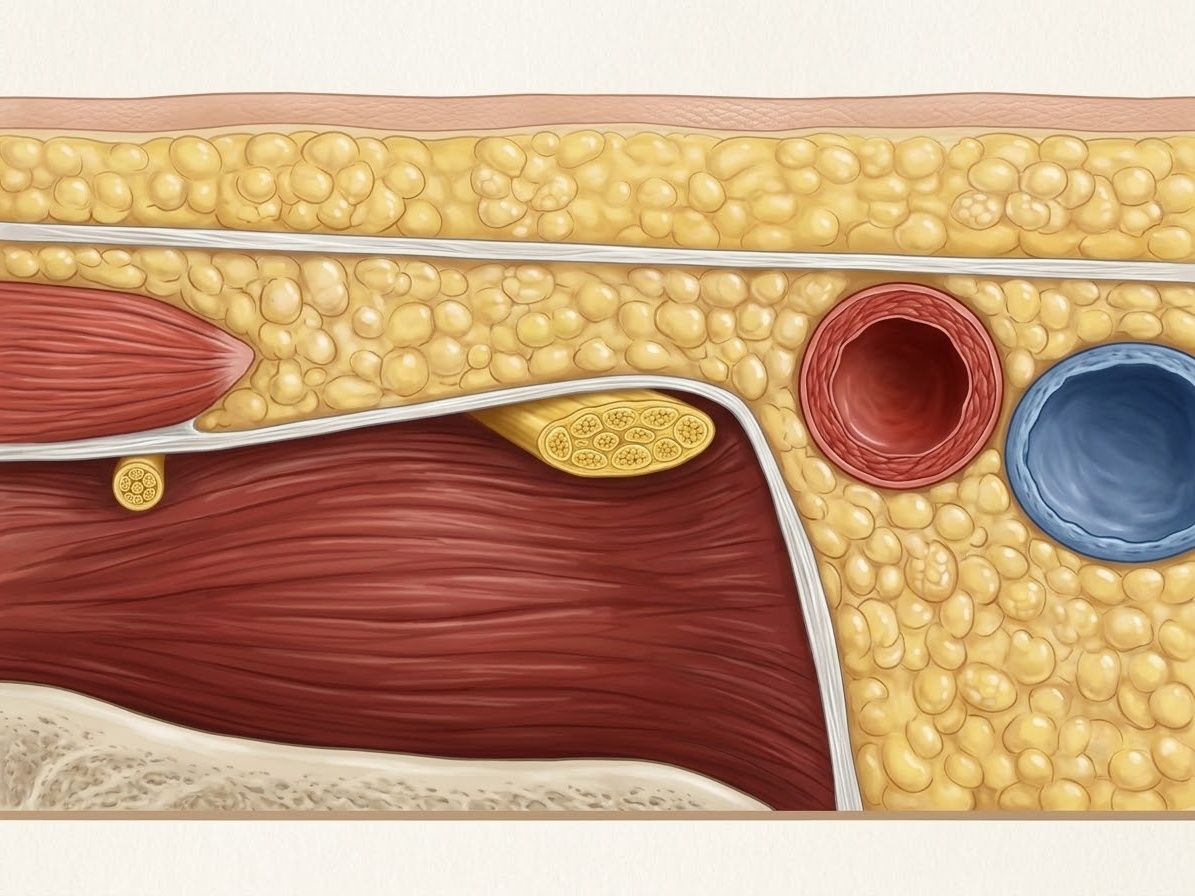
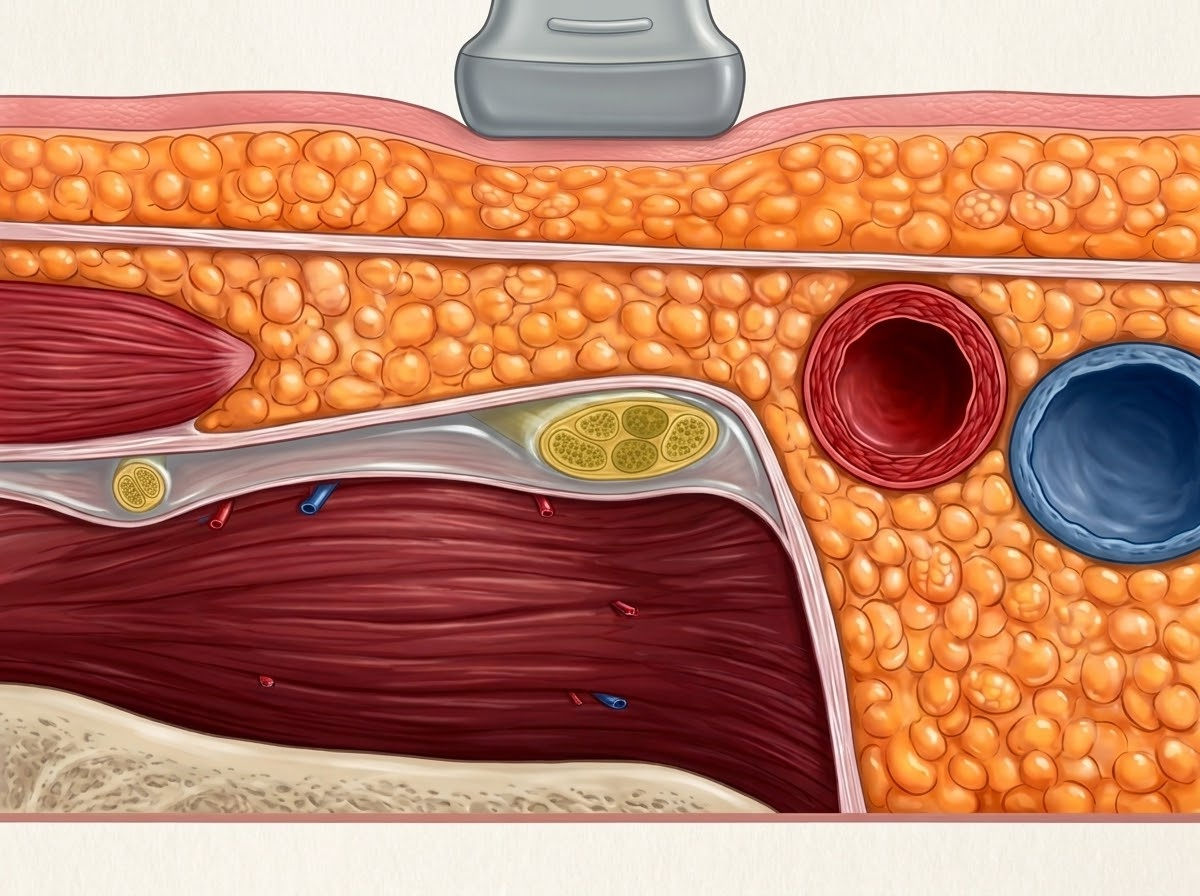
FICB anatomy plate on the owner's plane-opened painting (review draft); checker and patch fixes
- ficb_anatomy_layers: base is the owner's Gemini revision of the preferred
  painting with the fascial plane opened and the femoral nerve in
  compartments, mirrored lateral-left. Muscle surface under the plane and
  the painted probe traced on the painting; the code-drawn injectate fills
  the painted plane; needle tip mid-plane, lateral to the nerve, under the
  probe. The third-party concept image used for the revision is not in the
  repo (owner's temporary exception). 50/50 checks. Not bundled.
- render_visuals.py: <line> elements are sampled every 4 px like paths; 41
  samples on a long needle stepped over a 10 px fascia. All plates re-pass.
- visual_patch.py merge --keep: take back only part of the crop, so Gemini
  can see more context than it may change. Test added.

Claude-Session: https://claude.ai/code/session_01XyVvHwhR2fjDV2qNK5bAob

diff --git a/visuals/ficb_anatomy_layers/draw.py b/visuals/ficb_anatomy_layers/draw.py
@@ -1,14 +1,15 @@
 """Fascia iliaca block - the right groin in section under a linear probe.
 
-Painted base plus code-drawn markings. The art is the owner's Gemini Nano
-Banana Pro repaint of the flat-colour zoomed layout (commit d7c43c8), which
-the owner judged the best tissue rendering of every attempt; textured
-references made later repaints worse. That layout ran medial-left, so the
-painting is mirrored here (gemini-original.jpg is the file as painted) to
-run lateral-left like the patient-position plate and a transverse
-ultrasound. The painting lies on the layout within a few pixels, so the
-layout shapes stay as the invisible label and check regions (DEBUG=1 shows
-them). Re-check them if the base is replaced.
+Painted base plus code-drawn markings. The art descends from the owner's
+Gemini Nano Banana Pro repaint of the flat-colour zoomed layout (commit
+d7c43c8), the best tissue rendering of every attempt, which the owner then
+had Gemini revise with the fascial plane opened (provenance.json). It ran
+medial-left, so it is mirrored here (gemini-original.jpg is the file as
+painted) to run lateral-left like the patient-position plate and a
+transverse ultrasound. The painting lies on the layout within a few pixels;
+the layout shapes stay as the invisible regions (DEBUG=1 shows them), with
+the muscle surface under the opened plane and the painted probe traced on
+the painting. Re-trace them if the base is replaced.
 
 Transverse section at the inguinal crease, patient supine, seen from the
 feet: lateral on the image left, medial on the right, skin at the top.
@@ -44,7 +45,7 @@ from visuals_lib import Label, document, fmt, smooth_path  # noqa: E402
 
 ASSET_ID = "ficb_anatomy_layers"
 BASE = Path(__file__).with_name("base.jpg")
-BASE_SIZE = (1195.0, 896.0)
+BASE_SIZE = (1200.0, 896.0)
 PX_MM = 28.0
 ORIGIN = (392.0, 130.0)           # layout origin before the mirror
 X0, X1 = -16.0, 45.0              # frame edges in mm
@@ -91,47 +92,65 @@ LFCN = ((36.5, 18.6), 1.1)
 SARTORIUS = [(31, 12.2), (36, 9.6), (42, 8.9), (X1 + 3, 9.0), (X1 + 3, 16.6), (40, 16.4), (34, 15.4)]
 BONE_Y = 34.5
 PROBE = (-5.0, 33.0)                               # footprint, mm
-NEEDLE_OUT = (43.2, -10.4)
-NEEDLE_TIP = (21.5, iliaca_y(21.5) + 0.3)          # in the plane, just under the fascia
-SPREAD_LATERAL = 39.0
+# The iliopsoas surface under the opened plane, traced on the painting (mm).
+MUSCLE_SURFACE = [(8, 19.36), (10, 19.26), (12, 19.3), (14, 19.31), (16, 19.35), (18, 18.88), (20, 18.69), (22, 18.26),
+                  (24, 18.17), (26, 18.26), (28, 18.4), (30, 18.7), (32, 19.12), (34, 19.83), (36, 20.4), (38, 20.5),
+                  (40, 20.02), (42, 19.36), (44, 19.1), (48, 19.0)]
+# The painted probe (a narrow one), traced in canvas px on the mirrored painting.
+PAINTED_PROBE = [(607, 0), (993, 0), (993, 150), (980, 178), (620, 178), (607, 150)]
+PAINTED_PROBE_MM = (7.8, 21.6)                     # its face, lateral coordinates
+NEEDLE_OUT = (27.7, -10.0)
+NEEDLE_TIP = (19.6, 16.6)                          # mid-plane, lateral to the nerve, under the probe
 SPREAD_MEDIAL = NERVE[0][0] - NERVE[1] - 0.7
 
 
+def painted_skin(x):
+    """The painted skin surface: dented about 2 mm under the probe face, easing
+    back to level over the shoulders (traced on the painting)."""
+    (f0, f1), (s0, s1), depth = PAINTED_PROBE_MM, (4.2, 26.2), 2.0
+    if f0 <= x <= f1:
+        return depth
+    if s0 < x < f0:
+        return depth * (1 - math.cos(math.pi * (x - s0) / (f0 - s0))) / 2
+    if f1 < x < s1:
+        return depth * (1 + math.cos(math.pi * (x - f1) / (s1 - f1))) / 2
+    return 0.0
+
+
 def needle_entry():
-    """Where the needle line meets the skin (y = 0)."""
+    """Where the needle line meets the painted skin."""
     (xa, ya), (xb, yb) = NEEDLE_OUT, NEEDLE_TIP
-    m = -ya / (yb - ya)
-    return (xa + (xb - xa) * m, 0.0)
-
-
-def _hug(x, centre, rx, ry, pad):
-    """Depth of the lower edge of an ellipse widened by `pad`, or 0 outside it."""
-    (cx, cy), w = centre, rx + pad
-    if abs(x - cx) >= w:
-        return 0.0
-    return cy + (ry + pad * 0.8) * math.sqrt(1 - ((x - cx) / w) ** 2)
+    lo, hi = 0.0, 1.0
+    for _ in range(40):
+        m = (lo + hi) / 2
+        x, y = xa + (xb - xa) * m, ya + (yb - ya) * m
+        lo, hi = (m, hi) if y < painted_skin(x) else (lo, m)
+    return (xa + (xb - xa) * lo, ya + (yb - ya) * lo)
 
 
 def muscle_top(x):
-    """The iliopsoas surface: just under the fascia iliaca, passing beneath both
-    nerves, which lie in the fascial plane."""
-    return max(iliaca_y(x) + 0.5, _hug(x, NERVE[0], NERVE[1], NERVE[2], 0.9), _hug(x, LFCN[0], LFCN[1], LFCN[1], 0.6))
-
-
-def spread_floor(x):
-    lens = iliaca_y(x) + 0.5 + 2.6 * max(0.0, math.sin(math.pi * (SPREAD_LATERAL - x) / (SPREAD_LATERAL - SPREAD_MEDIAL))) ** 0.7
-    return max(lens, _hug(x, NERVE[0], NERVE[1], NERVE[2], 0.6), _hug(x, LFCN[0], LFCN[1], LFCN[1], 0.5))
+    """The iliopsoas surface, deep to the opened fascial plane in which both
+    nerves lie (traced on the painting)."""
+    pts_ = MUSCLE_SURFACE
+    if x <= pts_[0][0]:
+        return pts_[0][1]
+    for (xa, ya), (xb, yb) in zip(pts_, pts_[1:]):
+        if xa <= x <= xb:
+            return ya + (yb - ya) * (x - xa) / (xb - xa)
+    return pts_[-1][1]
 
 
 def spread():
-    """The injectate opening the plane between the fascia iliaca and the muscle."""
-    n = 40
-    xs = [SPREAD_LATERAL - (SPREAD_LATERAL - SPREAD_MEDIAL) * i / n for i in range(n + 1)]
-    return [(x, iliaca_y(x) + 0.2) for x in xs] + [(x, spread_floor(x)) for x in reversed(xs)]
+    """The injectate filling the opened plane between the fascia iliaca and the
+    muscle, from the femoral nerve out to the lateral edge."""
+    n = 50
+    lateral = X1 + 3
+    xs = [lateral - (lateral - SPREAD_MEDIAL) * i / n for i in range(n + 1)]
+    return [(x, iliaca_y(x) + 0.2) for x in xs] + [(x, muscle_top(x) - 0.15) for x in reversed(xs)]
 
 
 MUSCLE_TOP = [(x, muscle_top(x)) for x in [X1 + 3 - i * (X1 + 3 - 8.0) / 60 for i in range(61)]]
-MEDIAL_BORDER = [(6.9, 17.4), (5.4, 21.8), (4.0, 27.5), (3.4, BONE_Y - 0.4)]
+MEDIAL_BORDER = [(7.2, 19.6), (6.0, 24.0), (4.6, 29.0), (3.4, BONE_Y - 0.4)]
 ILIOPSOAS = MUSCLE_TOP + MEDIAL_BORDER + [(X1 + 3, BONE_Y - 0.4)]
 
 
@@ -171,6 +190,13 @@ def build() -> str:
         Label(["Iliopsoas"], anchor=(300, 880), leader=[(420, 832), c((27, 22))], target_id="iliopsoas"),
     ]
 
+    if painted:
+        probe_marking = (f'<polygon id="probe" points="{" ".join(f"{fmt(x)},{fmt(y)}" for x, y in PAINTED_PROBE)}" '
+                         f'fill="#ff00ff" fill-opacity="{0.35 if debug else 0}"/>')
+    else:
+        probe_marking = (f'<rect id="probe" x="{fmt(px0)}" y="{fmt(ORIGIN[1] - 150)}" width="{fmt(px1 - px0)}" height="150" rx="26" '
+                         f'fill="url(#probe-grad)" stroke="#4E565E" stroke-width="3"/>'
+                         f'<rect x="{fmt(px0 + 10)}" y="{fmt(ORIGIN[1] - 14)}" width="{fmt(px1 - px0 - 20)}" height="12" rx="5" fill="#3E454C"/>')
     scale = 1600 / BASE_SIZE[0]
     if painted:
         sha = hashlib.sha256(BASE.read_bytes()).hexdigest()
@@ -206,8 +232,7 @@ def build() -> str:
 
 <g class="marking">
   <path id="spread" d="{path(spread(), closed=True, tension=0.5)}" fill="#6CCBD2" fill-opacity="0.7" stroke="#0E8C98" stroke-width="4"/>
-  <rect id="probe" x="{fmt(px0)}" y="{fmt(ORIGIN[1] - 150)}" width="{fmt(px1 - px0)}" height="150" rx="26" fill="url(#probe-grad)" stroke="#4E565E" stroke-width="3"/>
-  <rect x="{fmt(px0 + 10)}" y="{fmt(ORIGIN[1] - 14)}" width="{fmt(px1 - px0 - 20)}" height="12" rx="5" fill="#3E454C"/>
+  {probe_marking}
   <line id="needle" x1="{fmt(a[0])}" y1="{fmt(a[1])}" x2="{fmt(t[0])}" y2="{fmt(t[1])}" stroke="#5E6670" stroke-width="10" stroke-linecap="butt"/>
   <line x1="{fmt(a[0])}" y1="{fmt(a[1])}" x2="{fmt(t[0])}" y2="{fmt(t[1])}" stroke="#D9DEE3" stroke-width="5" stroke-linecap="butt"/>
   <circle id="needle-entry" cx="{fmt(e[0])}" cy="{fmt(e[1])}" r="9" fill="#D8432A" stroke="#F6F7F9" stroke-width="3"/>

diff --git a/scripts/visual_patch.py b/scripts/visual_patch.py
@@ -15,7 +15,9 @@ things it was never asked to touch. This confines a repair to a box:
     # 3. Blend the repainted crop back with a feathered edge and matched colour.
     #    Writes render/patched.jpg; base.jpg is never overwritten. REPAINTED
     #    may also be a whole repainted image the size of the source (a
-    #    same-chat repair): only the box is taken from it.
+    #    same-chat repair): only the box is taken from it. --keep X0 Y0 X1 Y1
+    #    takes back only part of the crop: show Gemini more context than
+    #    you let it change.
     python3 scripts/visual_patch.py merge <id> REPAINTED.jpg [--feather 24]
 
 Merge refuses a source that changed since the crop, and reports how much
@@ -96,7 +98,8 @@ def _match_colour(repaint: Image.Image, original: Image.Image, ring: Image.Image
     return Image.merge("RGB", bands)
 
 
-def merge(record: dict, repaint_path: Path, out: Path, feather: int = 24, colour_match: bool = True) -> dict:
+def merge(record: dict, repaint_path: Path, out: Path, feather: int = 24, colour_match: bool = True,
+          keep: tuple | None = None) -> dict:
     source = ROOT / record["source"] if not Path(record["source"]).is_absolute() else Path(record["source"])
     if sha256(source) != record["sourceSha256"]:
         raise ValueError(f"{source} changed since the crop; crop again")
@@ -109,6 +112,16 @@ def merge(record: dict, repaint_path: Path, out: Path, feather: int = 24, colour
         # A whole repainted image (a same-chat repair): take only the box from it.
         repaint = repaint.crop((x0, y0, x1, y1))
     repaint = repaint.resize(size, Image.LANCZOS)
+    if keep:
+        # Gemini saw the whole crop for context; take back only this part of it.
+        k0, k1 = max(keep[0], x0), max(keep[1], y0)
+        k2, k3 = min(keep[2], x1), min(keep[3], y1)
+        if not (k0 < k2 and k1 < k3):
+            raise ValueError(f"keep box {keep} does not overlap the crop {record['box']}")
+        repaint = repaint.crop((k0 - x0, k1 - y0, k2 - x0, k3 - y0))
+        x0, y0, x1, y1 = k0, k1, k2, k3
+        size = (x1 - x0, y1 - y0)
+        original = image.crop((x0, y0, x1, y1))
 
     feather = max(1, min(feather, min(size) // 4))
     # Sides lying on the image border are not faded: something that leaves
@@ -166,6 +179,8 @@ def main(argv=None) -> int:
     m.add_argument("--out", type=Path, help="default visuals/<id>/render/patched.jpg")
     m.add_argument("--feather", type=int, default=24, help="soft-edge width, px (default 24)")
     m.add_argument("--no-colour-match", action="store_true")
+    m.add_argument("--keep", nargs=4, type=int, metavar=("X0", "Y0", "X1", "Y1"),
+                   help="take back only this part of the crop (source pixels); the rest stays as it was")
     args = ap.parse_args(argv)
 
     asset = VISUALS / args.asset_id
@@ -178,7 +193,8 @@ def main(argv=None) -> int:
         return 0
 
     record = json.loads((render / "patch.json").read_text(encoding="utf-8"))
-    result = merge(record, args.repaint, args.out or render / "patched.jpg", args.feather, not args.no_colour_match)
+    result = merge(record, args.repaint, args.out or render / "patched.jpg", args.feather, not args.no_colour_match,
+                   tuple(args.keep) if args.keep else None)
     print(f"{args.asset_id}: merged into {result['out']}; changed outside the box: {result['changedOutsideBox']} px; "
           f"mean change inside: {result['meanChangeInsideBox']}")
     return 1 if result["changedOutsideBox"] else 0

diff --git a/scripts/tests/test_visual_patch.py b/scripts/tests/test_visual_patch.py
@@ -85,6 +85,18 @@ class VisualPatchTest(unittest.TestCase):
         self.assertEqual(out.getpixel((200, 0)), (20, 160, 60), "the repaint reaches the top edge")
         self.assertNotEqual(out.getpixel((131, 60)), (20, 160, 60), "an inner side still fades")
 
+    def test_keep_takes_back_only_part_of_the_crop(self):
+        rec = vp.crop(self.source, (100, 60, 300, 240), self.dir / "render", margin=0)
+        solid = Image.new("RGB", (400, 300), (20, 160, 60))
+        solid.save(self.dir / "solid.png")
+        result = vp.merge(rec, self.dir / "solid.png", self.dir / "out.png", feather=8, colour_match=False,
+                          keep=(100, 60, 300, 120))
+        out = Image.open(self.dir / "out.png").convert("RGB")
+        self.assertEqual(result["box"], [100, 60, 300, 120])
+        self.assertEqual(out.getpixel((200, 90)), (20, 160, 60), "inside the keep box takes the repaint")
+        self.assertEqual(out.getpixel((200, 150)), (200, 60, 50), "the rest of the crop stays original")
+        self.assertEqual(result["changedOutsideBox"], 0)
+
     def test_merge_refuses_a_changed_source(self):
         rec = vp.crop(self.source, (140, 90, 260, 210), self.dir / "render")
         Image.new("RGB", (400, 300), (0, 0, 0)).save(self.source)

diff --git a/scripts/render_visuals.py b/scripts/render_visuals.py
@@ -80,8 +80,11 @@ CHECK_JS = r"""
   const samples = (id, n) => {
     const e = el(id);
     if (e.tagName === 'line') {
+      // At least one sample every 4 px here too: a long needle sampled 41
+      // times stepped over a 10 px fascia.
       const [a, b] = lineEnds(id);
-      return Array.from({ length: n + 1 }, (_, i) => ({ x: a.x + (b.x - a.x) * i / n, y: a.y + (b.y - a.y) * i / n }));
+      const m = Math.max(n, Math.ceil(Math.hypot(b.x - a.x, b.y - a.y) / 4));
+      return Array.from({ length: m + 1 }, (_, i) => ({ x: a.x + (b.x - a.x) * i / m, y: a.y + (b.y - a.y) * i / m }));
     }
     // At least one sample every 4 px, so a long path cannot step over a thin
     // structure (a 1700 px bougie crossing a 16 px membrane).
